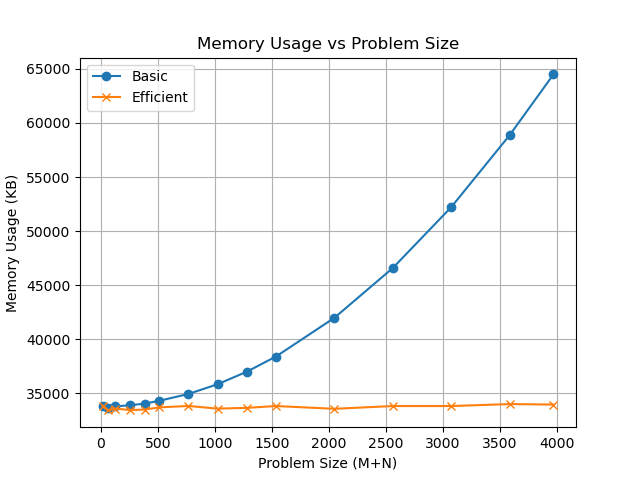
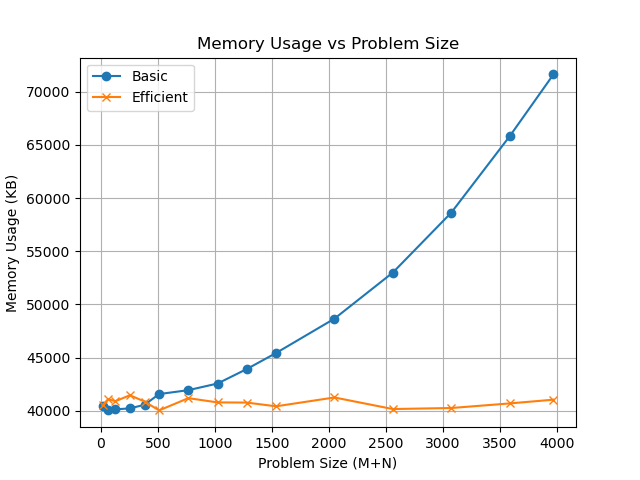
small efficiency updates

diff --git a/plot.py b/plot.py
@@ -3,8 +3,8 @@ import matplotlib.pyplot as plt
 sizes = [16, 64, 128, 256, 384, 512, 768, 1024, 1280, 1536, 2048, 2560, 3072, 3584, 3968]
 
 ### Memory Usage ###
-basic_memory_usage = [33780, 33668, 33784, 33888, 34040, 34296, 34932, 35832, 36988, 38396, 41976, 46584, 52212, 58872, 64492]
-efficient_memory_usage = [33824, 33412, 33584, 33444, 33488, 33692, 33820, 33576, 33648, 33816, 33560, 33816, 33816, 33996, 33952]
+basic_memory_usage = [40416, 40096, 40128, 40224, 40560, 41568, 41936, 42560, 43920, 45424, 48656, 52992, 58624, 65808, 71632]
+efficient_memory_usage = [40496, 41088, 40896, 41456, 40864, 40032, 41184, 40784, 40768, 40416, 41248, 40160, 40256, 40688, 41040]
 
 plt.figure()
 plt.plot(sizes, basic_memory_usage, marker='o', label='Basic')
@@ -18,8 +18,8 @@ plt.savefig("mem.png")
 ####################
 
 ### Time ###
-basic_time = [0.299, 3.202, 8.171, 39.891, 80.517, 133.161, 310.479, 560.541, 904.262, 1258.838, 2350.609, 4048.067, 5403.797, 7185.061, 8802.497]
-efficient_time = [1.173, 9.470, 16.698, 56.085, 127.605, 234.343, 486.038, 900.299, 1431.120, 2004.242, 3676.181, 3144.777, 8095.509, 11255.246, 11010.766]
+basic_time = [0.380, 1.226, 4.184, 25.790, 52.203, 80.957, 183.311, 291.934, 442.894, 611.405, 1087.381, 1695.491, 2441.489, 3359.632, 4192.616]
+efficient_time = [0.248, 1.962, 4.718, 22.183, 50.958, 107.978, 204.926, 356.180, 517.937, 760.617, 1360.526, 2008.715, 2931.417, 3974.431, 4973.406]
 
 plt.figure()
 plt.plot(sizes, basic_time, marker='o', label='Basic')

diff --git a/efficient.py b/efficient.py
@@ -74,7 +74,7 @@ ALPHAS = {
 DELTA = 30
 ##########################
 
-TRIVIAL = 2
+TRIVIAL = 100
 
 def alignment_cost_column(X, Y):
     m = len(X)
@@ -91,12 +91,12 @@ def alignment_cost_column(X, Y):
     # Recurrence
     for i in range(1, m+1):
         current_col[0] = i * DELTA
+        alpha_row = ALPHAS[X[i-1]]
         for k in range(1, n+1):
-            current_col[k] = min(previous_col[k-1] + ALPHAS[X[i-1]][Y[k-1]], 
-                                 previous_col[k] + DELTA,
-                                 current_col[k-1] + DELTA)
-        for k in range(0, n+1):
-            previous_col[k] = current_col[k]
+            current_col[k] = min(previous_col[k-1] + alpha_row[Y[k-1]], 
+                             previous_col[k] + DELTA,
+                             current_col[k-1] + DELTA)
+        previous_col, current_col = current_col, previous_col
     return previous_col
 
 def divide_and_conquer_alignment(X, Y):
